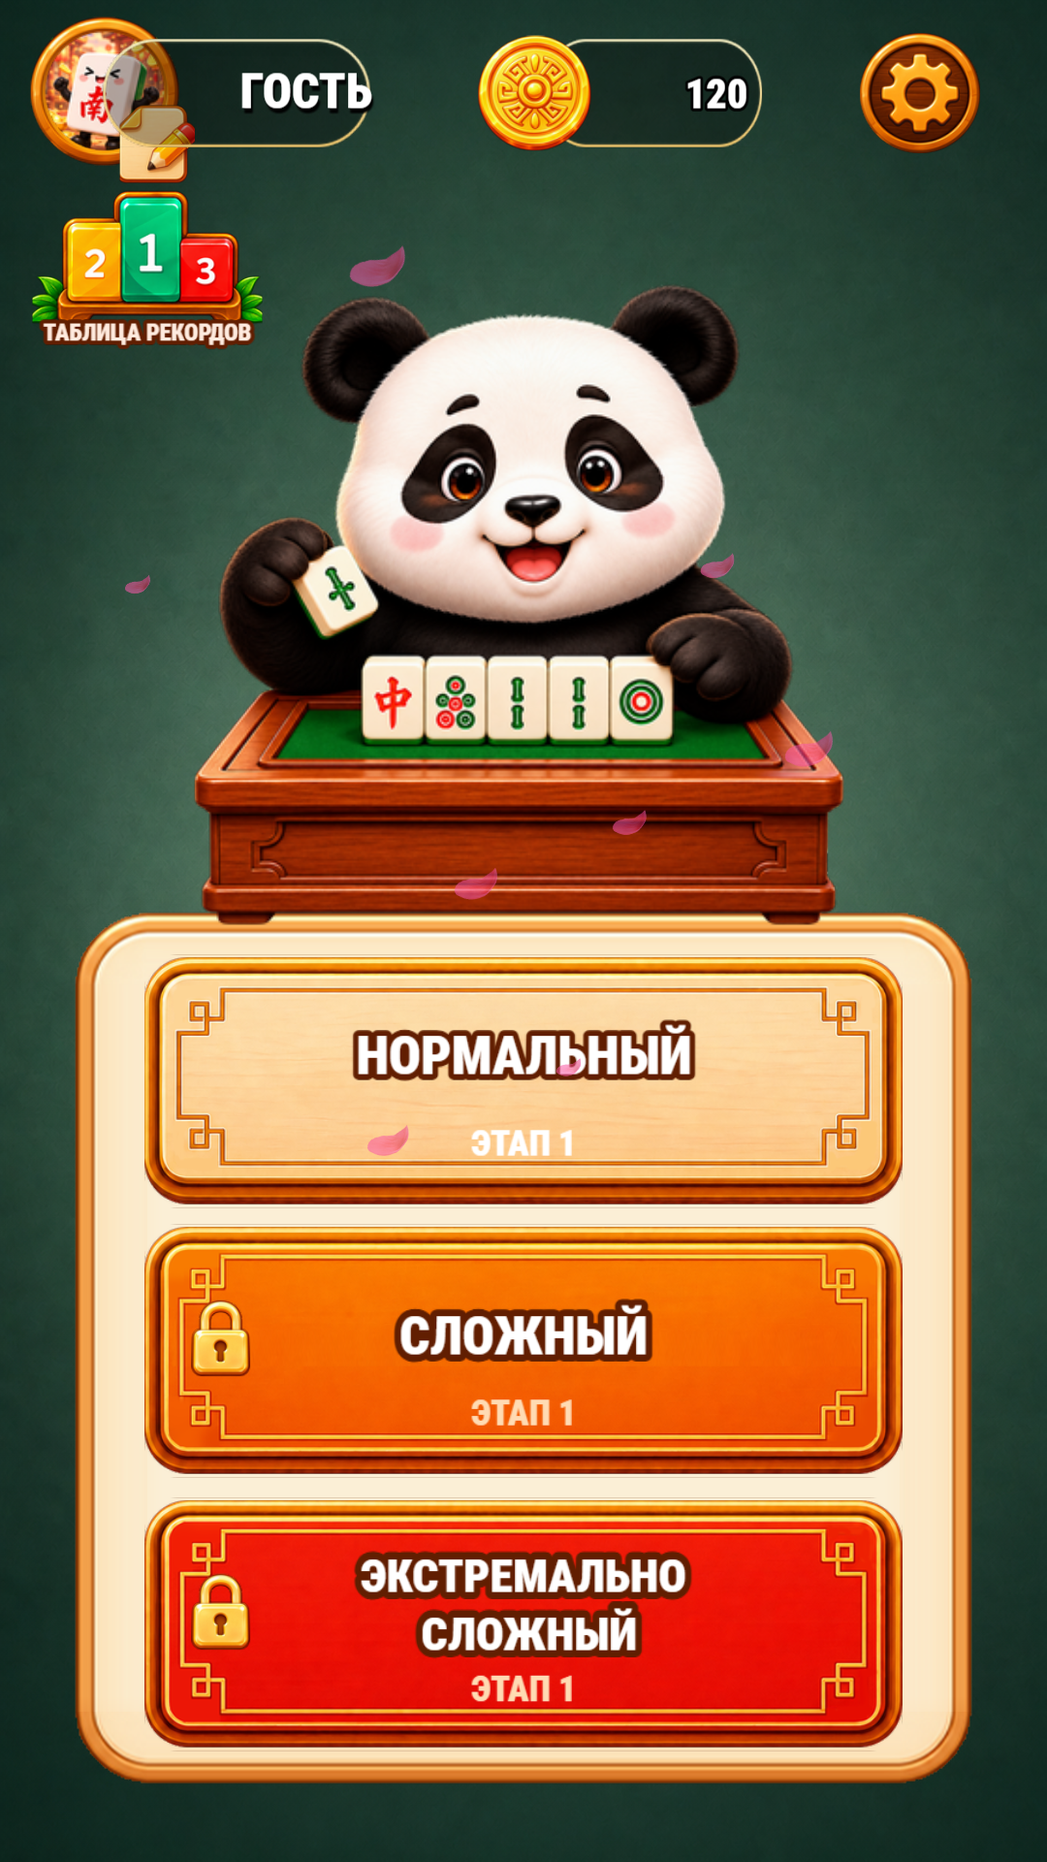
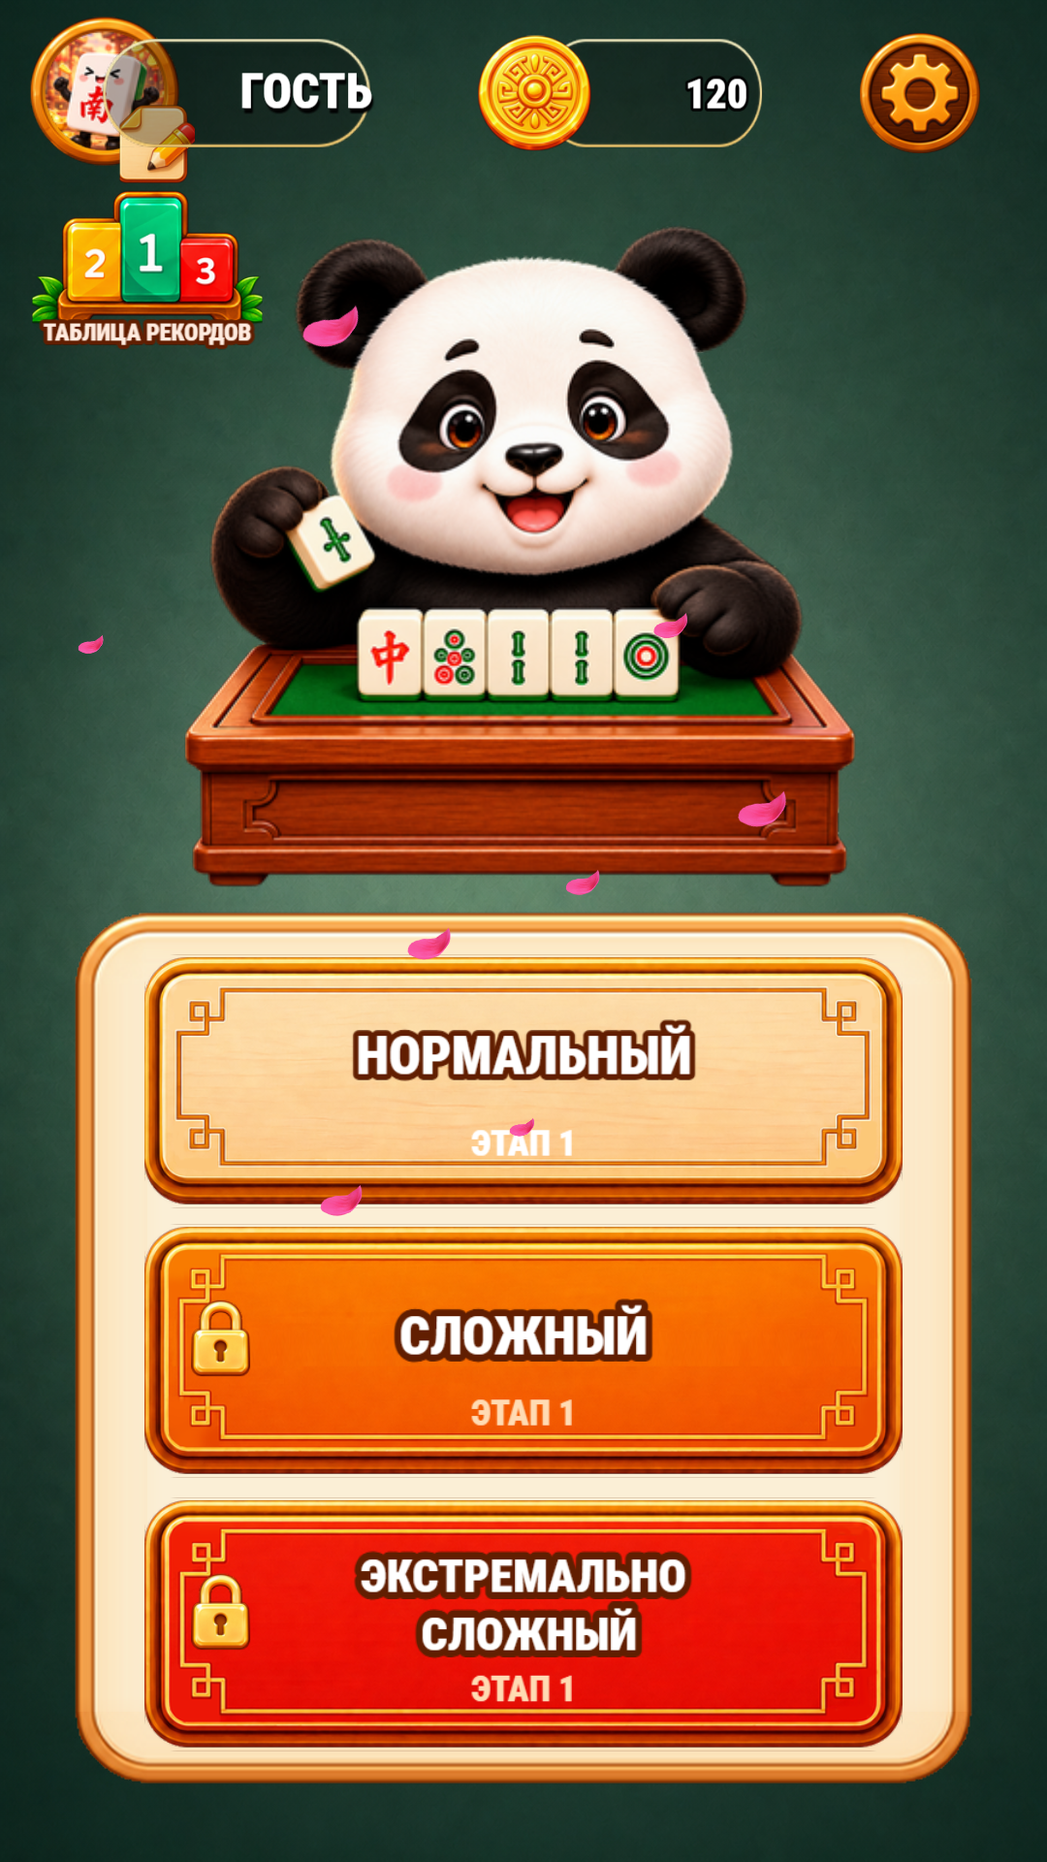
All nine screens captured from the running game, plus the leftover elements
tools/shoot.py now walks the game from a recipe in one browser session: it skips
the tutorial, opens each dialog by finding the node and clicking where it
actually is, and unhides the old developer buttons to force a win and a dead
end. Every screen on the page is a real screenshot now, none is a mockup
standing in for one.

The page pairs each of her nine mockups with the live screen and says in two
lines what is left to do on it, adds the one screen her set does not cover
(the rank list after a level), and explains what happened to the separate
element files she sent: 46 of 54 are in the build, and the same button drawn
separately and drawn inside her screen are two different pictures.

diff --git a/index.html b/index.html
@@ -35,7 +35,7 @@
 <div class="wrap">
 
 <h1>Маджонг: как выглядит сейчас</h1>
-<p class="lead">Сборка port-art2, 10.09.2026. Слева на каждой паре - макет Ани,
+<p class="lead">Сборка port-art2, 11.09.2026. Слева на каждой паре - макет Ани,
 справа - живой экран игры, снятый сегодня. Всё, что видно справа, кроме текста, это её файлы.</p>
 
 <div class="card">
@@ -57,47 +57,83 @@
 
 <div class="card">
 <h3>Меню</h3>
-<img src="sheets/pair_menu.png" alt="Меню">
+<img src="sheets/pair_menu_live.png" alt="Меню">
 <p class="muted">слева макет Ани, справа игра</p>
 <div class="notes">
-  <div class="note have"><b>Уже её</b>Всё. Сукно, панда со столиком, кнопки, монета и её плашки, шестерня, рамка аватара, иконка рекордов и большая кремовая панель под тремя кнопками, вырезанная из её же макета.</div>
-  <div class="note need"><b>Чего не хватает</b>Ничего. Расстановка пересчитана по её макету и сходится с ним в пределах десяти точек, шрифт заменён на сжатый. Отличается только то, что в игре живое: имя игрока, число монет, аватарка и падающие лепестки.</div>
+  <div class="note have"><b>Уже её</b>Всё: сукно, панда со столиком, кнопки, монета и плашки, шестерня, рамка аватара, иконка рекордов и большая кремовая панель под кнопками, вырезанная из её же макета.</div>
+  <div class="note need"><b>Чего не хватает</b>Ничего. Расстановка пересчитана по её макету и сходится с ним в пределах десяти точек, шрифт сжатый, как у неё. Отличается только живое: имя игрока, число монет, аватарка и падающие лепестки.</div>
 </div>
 </div>
 <div class="card">
 <h3>Игровой экран</h3>
-<img src="sheets/pair_level.png" alt="Игровой экран">
+<img src="sheets/pair_level_live.png" alt="Игровой экран">
 <p class="muted">слева макет Ани, справа игра</p>
 <div class="notes">
-  <div class="note have"><b>Уже её</b>Все плитки, тело плитки, сукно, бамбук в углу, панда за доской, нижняя плашка с шестернёй, подсказкой и монетами.</div>
-  <div class="note need"><b>Чего не хватает</b>Плашки под надписями «Лучшее / Балл / Этап» - у неё они есть, файла нет. Сетка между плитками и линия соединения. Рука-указатель в обучении.</div>
+  <div class="note have"><b>Уже её</b>Все плитки, тело плитки, сукно, бамбук, панда за доской, нижняя плашка с шестернёй, подсказкой и монетами.</div>
+  <div class="note need"><b>Чего не хватает</b>Плашки под «Лучшее / Балл / Нормальный»: у неё это три обведённые пилюли, у нас голый текст. Сетка между плитками и линия, которой соединяется пара. Рука-указатель в обучении.</div>
 </div>
 </div>
 <div class="card">
 <h3>Настройки</h3>
-<img src="sheets/pair_settings.png" alt="Настройки">
+<img src="sheets/pair_settings_live.png" alt="Настройки">
 <p class="muted">слева макет Ани, справа игра</p>
 <div class="notes">
-  <div class="note have"><b>Уже её</b>Панель окна с пунктиром, крестик, кремовые строки, круглые иконки, тумблеры.</div>
+  <div class="note have"><b>Уже её</b>Панель окна с пунктиром, крестик, кремовые строки, круглые иконки, тумблеры - всё её.</div>
+  <div class="note need"><b>Чего не хватает</b>Ничего.</div>
+</div>
+</div>
+<div class="card">
+<h3>Смена аватара</h3>
+<img src="sheets/pair_avatars_live.png" alt="Смена аватара">
+<p class="muted">слева макет Ани, справа игра</p>
+<div class="notes">
+  <div class="note have"><b>Уже её</b>Панель окна, крестик, все 15 аватарок, кольцо вокруг выбранной, галочка.</div>
   <div class="note need"><b>Чего не хватает</b>Ничего.</div>
 </div>
 </div>
 <div class="card">
 <h3>Таблица рекордов</h3>
-<img src="sheets/pair_rank.png" alt="Таблица рекордов">
+<img src="sheets/pair_rank_live.png" alt="Таблица рекордов">
 <p class="muted">слева макет Ани, справа игра</p>
 <div class="notes">
   <div class="note have"><b>Уже её</b>Панель окна, крестик, аватарки соперников, кольца, значки ранга.</div>
-  <div class="note need"><b>Чего не хватает</b>Оранжевые подложки строк и полосы прогресса - пока кадры исходной игры.</div>
+  <div class="note need"><b>Чего не хватает</b>Оранжевые подложки строк - кадры исходной игры. Это белые плашки, которые игра красит на ходу, поэтому от неё нужна только форма, без цвета.</div>
 </div>
 </div>
 <div class="card">
-<h3>Смена аватара</h3>
-<img src="sheets/pair_avatars.png" alt="Смена аватара">
+<h3>Подсказка кончилась</h3>
+<img src="sheets/pair_clue_live.png" alt="Подсказка кончилась">
 <p class="muted">слева макет Ани, справа игра</p>
 <div class="notes">
-  <div class="note have"><b>Уже её</b>Панель окна, крестик, все 15 аватарок, кольцо вокруг выбранной, галочка.</div>
-  <div class="note need"><b>Чего не хватает</b>Ничего.</div>
+  <div class="note have"><b>Уже её</b>Панель окна, крестик, кнопки «Купить» и «Бесплатно», значок видео, монета.</div>
+  <div class="note need"><b>Чего не хватает</b>Внутренняя плашка вокруг лампочки серая, у неё кремовая. Лампочка - кадр исходной игры.</div>
+</div>
+</div>
+<div class="card">
+<h3>Уровень пройден</h3>
+<img src="sheets/pair_win_live.png" alt="Уровень пройден">
+<p class="muted">слева макет Ани, справа игра</p>
+<div class="notes">
+  <div class="note have"><b>Уже её</b>Панда с бамбуком её.</div>
+  <div class="note need"><b>Чего не хватает</b>Экран собран иначе: у неё панель с надписью, баллом и кнопкой «Продолжить», у нас только надпись поверх поля, а очки показываются следующим окном. Решать нам, не ей.</div>
+</div>
+</div>
+<div class="card">
+<h3>Нет ходов</h3>
+<img src="sheets/pair_lose_live.png" alt="Нет ходов">
+<p class="muted">слева макет Ани, справа игра</p>
+<div class="notes">
+  <div class="note have"><b>Уже её</b>Ничего: экран целиком из исходной игры.</div>
+  <div class="note need"><b>Чего не хватает</b>У неё это окно с грустной пандой, кремовой панелью и кнопкой «Продолжить». У нас просто надпись поверх доски. Панель и панда у неё есть, нужен узел в сцене - это наша работа.</div>
+</div>
+</div>
+<div class="card">
+<h3>Лучший результат</h3>
+<img src="sheets/pair_best_live.png" alt="Лучший результат">
+<p class="muted">слева макет Ани, справа игра</p>
+<div class="notes">
+  <div class="note have"><b>Уже её</b>Панда с медалью её, кнопка её.</div>
+  <div class="note need"><b>Чего не хватает</b>Не хватает лавровых веток вокруг числа: она их присылала (overbg_1, overbg_2), но в игре нет кадра, куда их положить. Заголовок у неё «Лучшее на этой неделе», у нас «Лучшее в истории».</div>
 </div>
 </div>
 <h2>Меню: сведено с её макетом</h2>
@@ -120,18 +156,42 @@ Condensed Black, лицензия SIL OFL, кириллица есть.</p>
 кнопка 1    838x178  в ( 539,1039)    838x178  в ( 539,1039)   dx   +0 dy   +0  dw   +0 dh   +0
 кнопка 2    778x188  в ( 541,1324)    780x188  в ( 540,1324)   dx   -1 dy   +0  dw   +2 dh   +0
 кнопка 3    778x150  в ( 541,1623)    780x150  в ( 540,1623)   dx   -1 dy   +0  dw   +2 dh   +0
-панда       736x698  в ( 518, 579)    718x698  в ( 509, 579)   dx   -9 dy   +0  dw  -18 dh   +0
-рекорды     318x174  в ( 169, 291)    294x198  в ( 181, 279)   dx  +12 dy  -12  dw  -24 dh  +24
+панда       736x698  в ( 518, 579)    730x698  в ( 515, 579)   dx   -3 dy   +0  dw   -6 dh   +0
+рекорды     318x174  в ( 169, 291)    294x186  в ( 181, 273)   dx  +12 dy  -18  dw  -24 dh  +12
 шестерня    118x116  в ( 951,  96)    122x122  в ( 949,  95)   dx   -2 dy   -1  dw   +4 dh   +6
 </pre>
 <p class="muted">Отличается только живое: имя игрока, число монет, нарисованная аватарка вместо
 пустого кружка на макете и падающие лепестки, которых на статичной картинке быть не может.</p>
 
-<h2>Экраны, которые ещё не сняты</h2>
-<p>Эти окна в игре есть, но чтобы их снять, надо доиграть уровень до конца или потратить подсказки.
-Пока показываю только макеты Ани, чтобы было видно, что нас ждёт. Панель окна и крестик там уже её,
-как и в остальных окнах; звёзды и панда над рамкой - нет.</p>
-<div class="four"><figure style="margin:0"><img src="sheets/only_win.png" alt="Победа"><figcaption>Победа</figcaption></figure><figure style="margin:0"><img src="sheets/only_lose.png" alt="Нет ходов"><figcaption>Нет ходов</figcaption></figure><figure style="margin:0"><img src="sheets/only_clue.png" alt="Подсказка"><figcaption>Подсказка</figcaption></figure><figure style="margin:0"><img src="sheets/only_best.png" alt="Лучшее за неделю"><figcaption>Лучшее за неделю</figcaption></figure></div>
+<h2>Что стало с её отдельными файлами</h2>
+<p>Она прислала <b>54</b> отдельных картинок интерфейса плюс 15 аватарок.
+В сборке стоит <b>46</b>. Формат у них правильный: отдельный элемент, прозрачный фон,
+крупный размер. Именно поэтому почти всё на экранах выше уже её.</p>
+<p>Не встали 8 штук, и по трём разным причинам:</p>
+<table>
+<tr><th>файл</th><th>почему не стоит</th></tr>
+<tr><td>bg_1, bg_1920x1080</td><td>горизонтальные фоны, игра портретная</td></tr>
+<tr><td>overbg_1, overbg_2</td><td>лавровые ветки для экрана рекорда: в игре нет кадра, куда их положить</td></tr>
+<tr><td>win</td><td>панда для окна победы: то же самое, слота нет</td></tr>
+<tr><td>sub_line</td><td>пунктир под заголовком: рисуется кодом, файл не нужен</td></tr>
+<tr><td>jinbidi</td><td>второй вариант тёмной пилюли, взят другой её файл</td></tr>
+<tr><td>grade_1</td><td>лишний значок ранга, тиров одиннадцать, рисунков пять</td></tr>
+</table>
+<p>И отдельно то, что мешает больше всего. <b>Её элемент и тот же элемент внутри её экрана - это
+два разных рисунка.</b> Нейронка перерисовывает заново каждый раз. Ниже одна и та же кнопка
+«Сложный»: сверху отдельный файл, снизу она же из макета меню. Разные уголки, разный кант,
+разная фаска.</p>
+<img src="shots/why_mismatch.png" alt="один элемент, два разных рисунка">
+<p>Из-за этого «поставить её элементы» и «получить её экран» - разные цели. Мы ставим её файлы,
+а позицию и размер снимаем с её макета, поэтому экран сходится по геометрии, но мелкий рисунок
+элемента отличается от того, что на её картинке.</p>
+
+<h2>Экран, на который макета нет</h2>
+<div class="card">
+<h3>Список рангов после уровня</h3>
+<div class="pair"><figure style="margin:0"><img src="shots/rankup_live.png" alt="Список рангов после уровня"></figure>
+<div class="note need"><b>Что с ним делать</b>Открывается сразу после победы. Макета на него нет: оранжевая шапка, строчный заголовок и оранжевые подложки строк - всё это кадры исходной игры. Либо просим макет, либо собираем из того, что уже есть в других окнах.</div></div>
+</div>
 <h2>Чего не хватает: интерфейс</h2>
 <p>8 картинок. Это те кадры, где до сих пор пиксели исходной игры и которые видно.
 Кадры выключенных экранов (выбор темы, шапка окна) сюда не попали - их рисовать не надо.</p>
